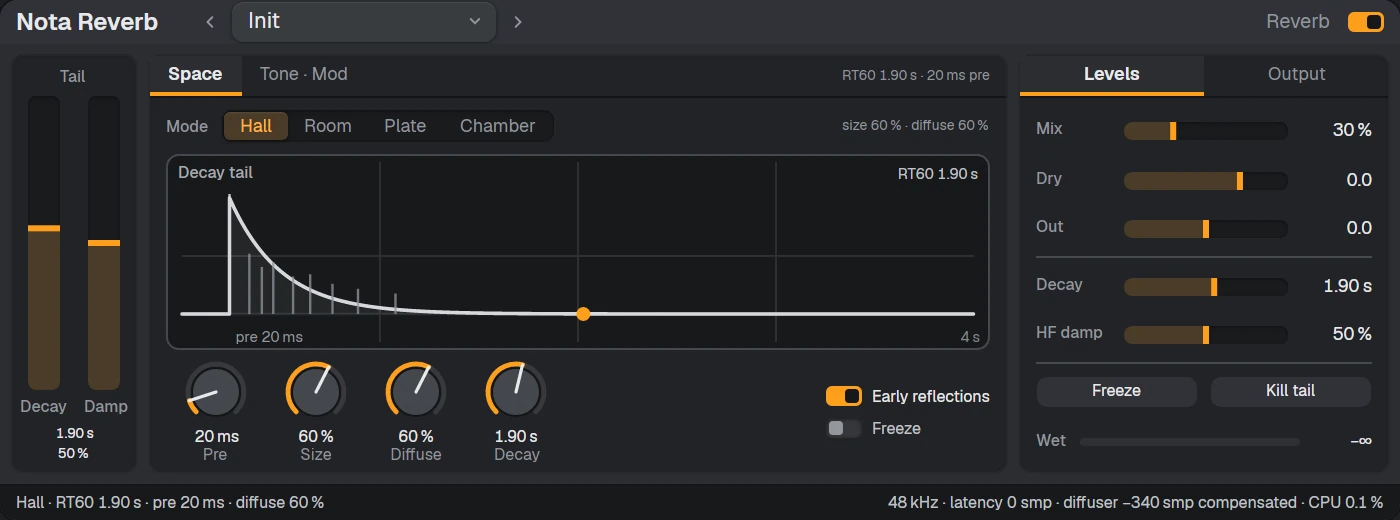
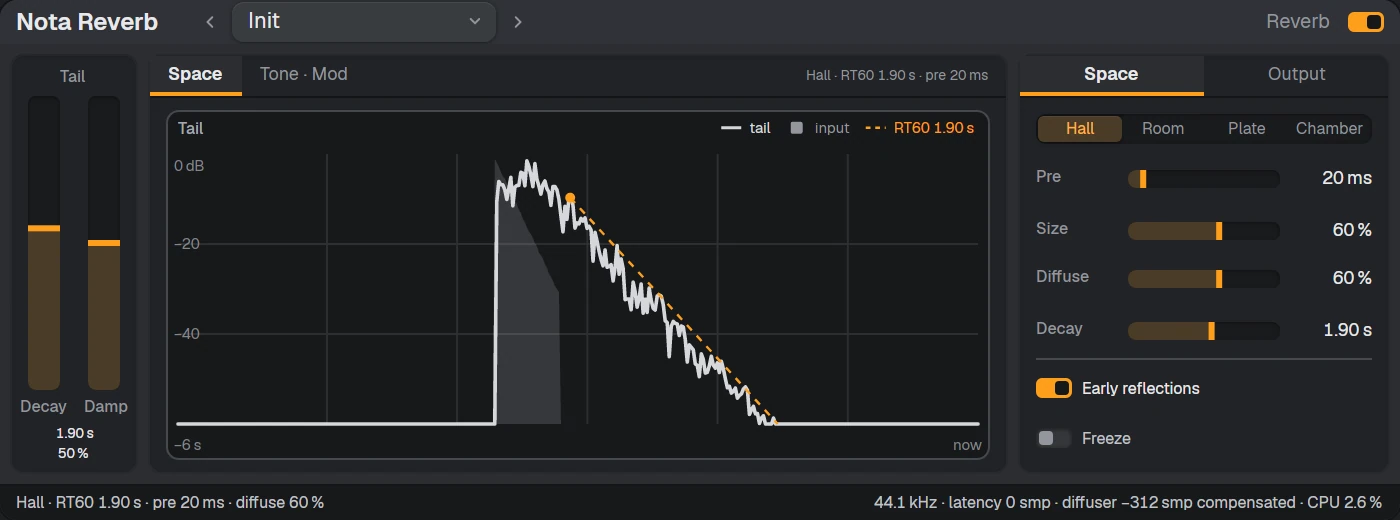
Reverb and Delay: live graphs fill the centre panel, the right panel holds the tab's controls (EN + RU, shots retaken with audio)

diff --git a/shots/app/Scenes.cs b/shots/app/Scenes.cs
@@ -184,7 +184,14 @@ public sealed class Scenes
         // A little audio through the device so meters, spectra and envelopes have something to draw.
         _engine.Play();
         var buf = new float[1024 * 2];
-        for (int k = 0; k < 40; k++) _engine.RenderOffline(buf, 1024);
+        // `set`: "param=value,…" normalised device params before the audio runs.
+        if (shot.Str("set") is string sets)
+            foreach (var kv in sets.Split(','))
+            {
+                var pv = kv.Split('=');
+                _engine.DeviceSetParam(track, deviceIndex, int.Parse(pv[0]), float.Parse(pv[1], System.Globalization.CultureInfo.InvariantCulture));
+            }
+        for (int k = 0, nb = shot.Int("blocks") ?? 40; k < nb; k++) _engine.RenderOffline(buf, 1024);
         _engine.StopTransport();
 
         var view = new DeviceChainView(_engine, _presets, null, Kits);
